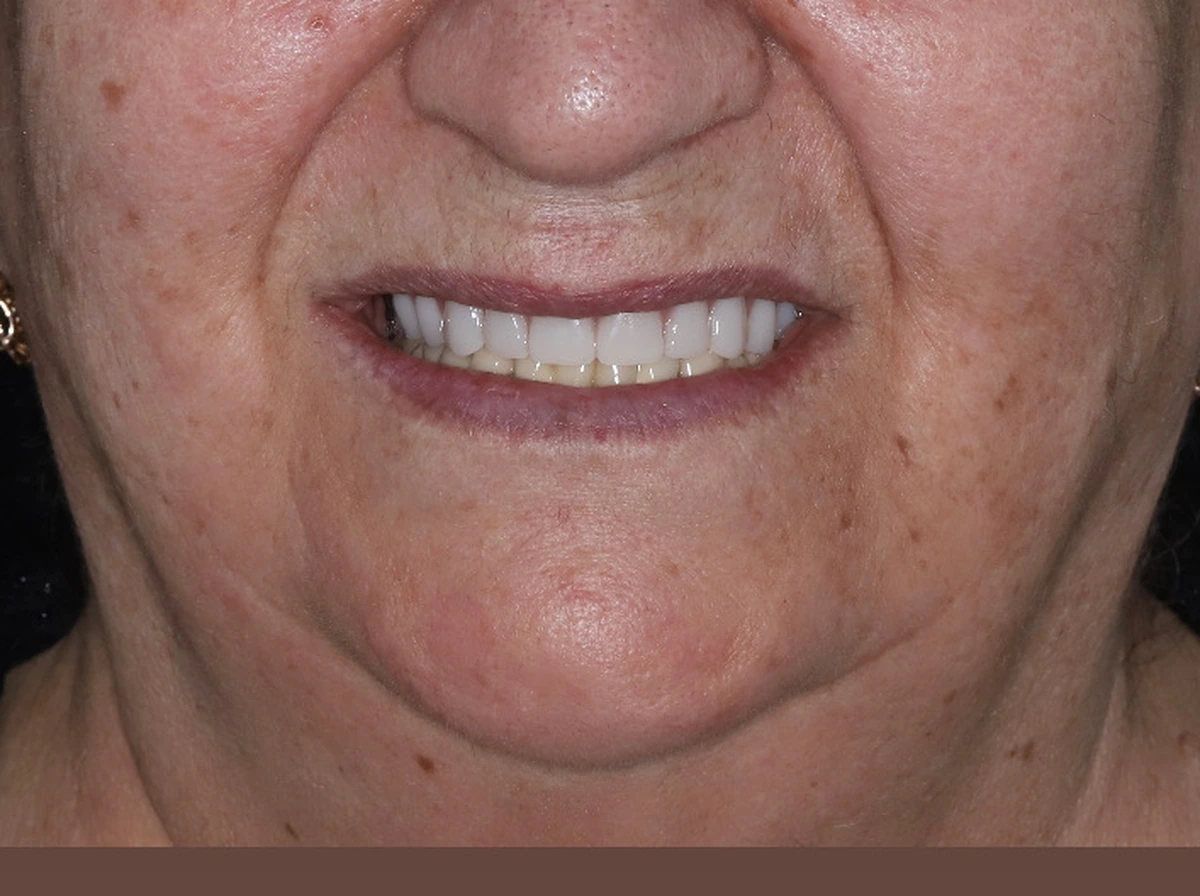
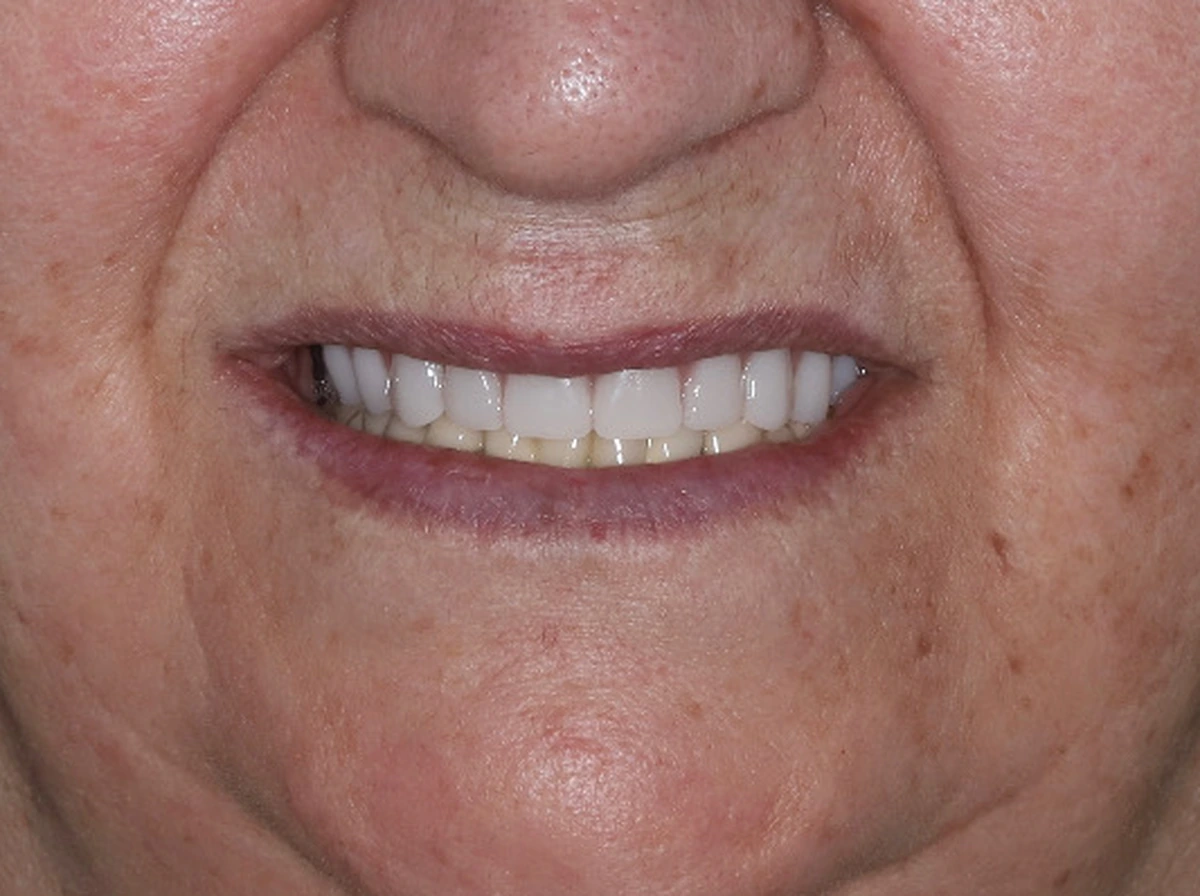
Портфолио: фикс полосы фона на «после», клик по основным фото → просмотрщик
- Перекадрированы rustamov-prosthetics-before/after: исходники — телефонные
  скрины с бежевой рамкой снизу; «после» цеплял рамку → под фото вылезала
  полоса. Теперь оба кропа независимо заполняют кадр 4:3 без полей, посадка
  одинаковая (рот по центру, глаза вне кадра).
- Основные «до/после» в лайтбоксе теперь тоже открываются крупно в
  просмотрщике (как доп. фото) — клик по фото; курсор zoom-in.
- CLAUDE.md: правила кропа «заполнять кадр без полей» и описание поля
  extra (галерея + графичные кадры за согласием), чтобы не повторять.

Claude-Session: https://claude.ai/code/session_018kZRQw1fV4cZq5brYgXsBf

diff --git a/assets/css/styles.css b/assets/css/styles.css
@@ -552,6 +552,7 @@ p { margin: 0 0 1em; }
 .pf-lightbox__images { display: grid; grid-template-columns: 1fr 1fr; gap: 14px; margin-bottom: 18px; }
 .pf-lightbox__images figure { margin: 0; position: relative; }
 .pf-lightbox__images img { width: 100%; border-radius: var(--radius-sm); display: block; }
+.pf-lightbox__images figure:not(.is-placeholder) img { cursor: zoom-in; }
 .pf-lightbox__images figcaption { position: absolute; left: 12px; top: 12px; background: var(--c-primary); color: #fff; font-size: 12px; font-weight: 700; letter-spacing: .06em; text-transform: uppercase; padding: 5px 12px; border-radius: 100px; }
 .pf-lightbox__images figure:first-child figcaption { background: rgba(15,31,58,.85); }
 .pf-lightbox h3 { margin: 0 0 8px; font-size: 22px; line-height: 1.25; }

diff --git a/assets/js/portfolio.js b/assets/js/portfolio.js
@@ -916,6 +916,12 @@ window.AD_PORTFOLIO = {
           closeShotViewer(lb);
           return;
         }
+        // Клик по основному фото «До»/«После» — открыть крупно в просмотрщике
+        var mainImg = e.target.closest('[data-pf-lb-before], [data-pf-lb-after]');
+        if (mainImg && mainImg.getAttribute('src')) {
+          openShotViewer(lb, mainImg.getAttribute('src'), mainImg.hasAttribute('data-pf-lb-before') ? 'До лечения' : 'После лечения');
+          return;
+        }
         // Клик по миниатюре доп. фото
         var shot = e.target.closest('.pf-shot');
         if (shot) {

diff --git a/CLAUDE.md b/CLAUDE.md
@@ -58,6 +58,44 @@
 сильное размытие глаз; но кроп до улыбки надёжнее и выглядит как
 полноценный dental «до/после».)
 
+## Кроп «до/после» — заполнять кадр без полей (обязательно)
+
+Снимок 4:3 `1200×896` должен заполняться **целиком**: по краям (особенно
+снизу) НЕ должно быть фона/рамки/тёмной полосы. В лайтбоксе фото
+показывается во всю высоту (`height:auto`), поэтому любая запечённая в
+картинку полоса вылезет под фото — лечится **кропом, не CSS**. Частая
+причина — исходник это телефонный скрин с чёрной (статус-бар) или
+бежевой рамкой: кадрируем **строго внутри лица**, не задевая рамку.
+
+«До» и «После» сняты по-разному (пациент чуть крупнее/мельче, выше/ниже),
+поэтому **каждое фото кадрируем отдельно**, но к ОДНОЙ посадке: рот по
+центру, одинаковый зум, глаза вне кадра. Проверка перед сохранением:
+верхний и нижний ряды пикселей кропа — кожа/зубы, а не фон/рамка. Эталон —
+`rustamov-prosthetics-before/after` (кропы подобраны независимо, чтобы оба
+заполняли кадр без полос).
+
+## Галерея «Ещё фото работы» (доп. снимки в лайтбоксе)
+
+У работы в `portfolio.js` можно задать поле `extra` — массив доп. фото,
+которые показываются под «до/после» в лайтбоксе и открываются крупно в
+просмотрщике (как и сами «до/после» — клик по фото). Формат снимков тот
+же (4:3 1200×896, водяной знак, обезличено).
+
+```js
+extra: [
+  { src: '../assets/img/portfolio/<имя>.webp', caption: 'Подпись' },
+  { src: '../assets/img/portfolio/<имя>.webp', caption: '...', graphic: true }
+]
+```
+
+`graphic: true` — для клинических кадров (кровь/хирургия): миниатюра
+заблюрена с предупреждением «Клинический кадр», а **картинка грузится
+только после клика** (по согласию — бережно к посетителю и не светит
+графику поисковику до взаимодействия). Логика — в `assets/js/portfolio.js`
+(`openLightbox` → блок галереи, `openShotViewer`), стили — `.pf-shot*` и
+`.pf-shot-viewer` в `assets/css/styles.css`. Достаточно **одного**
+графичного кадра на кейс, не перегружаем.
+
 ## Один и тот же врач на двух сайтах (Angel + Версаль)
 
 Часть врачей есть и в Angel, и в Версале (например, `rustamov` —
